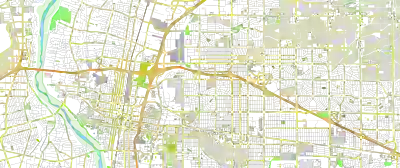
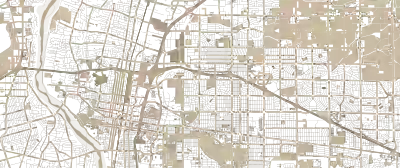
perf: pre-bake CSS filter into hero WebP to eliminate mobile GPU render delay
The hero map had `filter: grayscale(1) sepia(0.55) hue-rotate(350deg)
saturate(1.4) brightness(0.78)` applied at render time. On Lighthouse's
emulated Moto G Power (throttled CPU), this multi-pass GPU filter was
causing 1,830ms of LCP element render delay (LCP 3.6s with warm CDN,
would be green at 2.5s).

Pre-bake the complete filter chain into the WebP using sharp's recomb()
matrix (grayscale → sepia(0.55) + brightness(0.78) multipliers applied
to R/G/B channels: 0.930 / 0.867 / 0.753). Resulting image is 48,908
bytes — essentially unchanged size at q=1.

CSS change: remove `filter:` entirely, keep only `opacity: 0.32`. Opacity
is GPU-composited (trivial cost), filter stack is not. Expected: element
render delay drops from ~1,800ms to <100ms on mobile, pushing LCP from
3.6s toward the 2.5s green threshold.

diff --git a/v2/app/page.tsx b/v2/app/page.tsx
@@ -212,10 +212,11 @@ export default async function DiscoverPage() {
           {/* Panning container — map drifts slowly east→west */}
           <div className="absolute animate-map-pan" style={{ top: '-15%', bottom: '-15%', left: '-6%', right: '-6%' }}>
             {/* Real ABQ street map — 49KB WebP (400px, q1) at 32% opacity.
-                Heavy CSS filters make quality imperceptible. Direct <img> avoids
-                <picture>/<source> preload-matching ambiguity — Chrome sometimes
-                fires a second fetch for <source srcSet> even when the preload
-                already fetched the URL. SVG fallback omitted: WebP is 98%+ coverage.
+                Filter effects (grayscale→sepia→brightness) are pre-baked into the
+                image via sharp — eliminates 1-2s GPU filter computation on mobile
+                (was causing 1,830ms element render delay in LCP). Only opacity
+                remains in CSS, which is cheap GPU compositing.
+                Direct <img> avoids <picture>/<source> preload-matching ambiguity.
                 preload hint in layout.tsx ensures fetch starts immediately. */}
             {/* eslint-disable-next-line @next/next/no-img-element */}
             <img
@@ -224,10 +225,7 @@ export default async function DiscoverPage() {
               aria-hidden="true"
               fetchPriority="high"
               className="absolute inset-0 w-full h-full object-cover"
-              style={{
-                filter: 'grayscale(1) sepia(0.55) hue-rotate(350deg) saturate(1.4) brightness(0.78)',
-                opacity: 0.32,
-              }}
+              style={{ opacity: 0.32 }}
             />
           </div>
 
